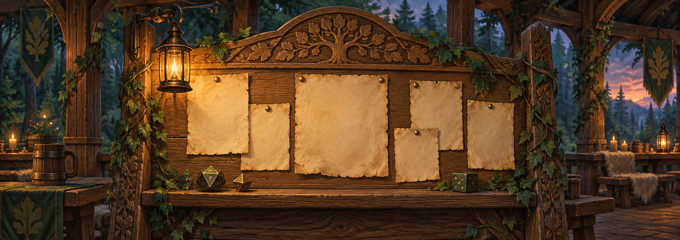
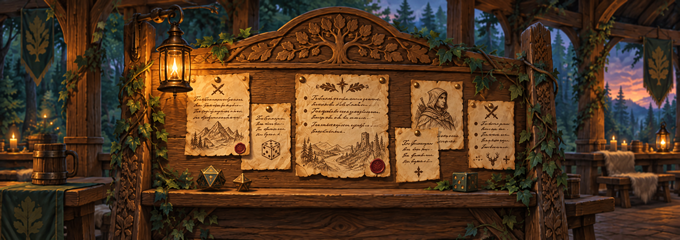
Refine medieval Discord noticeboard art

diff --git a/docs/design/2026-09-16-discord-assets/README.md b/docs/design/2026-09-16-discord-assets/README.md
@@ -1,6 +1,6 @@
 # Discord icon and banner concepts
 
-Generated 2026-09-16 with built-in image generation. Each final set contains a 1024 × 1024 application icon and a 680 × 240 banner. No set contains text or copied brand elements.
+Generated 2026-09-16 with built-in image generation. Each final set contains a 1024 × 1024 application icon and a 680 × 240 banner. No set contains copied brand elements.
 
 ## Forest gateway
 
@@ -8,16 +8,10 @@ Generated 2026-09-16 with built-in image generation. Each final set contains a 1
 - `forest/groblus-forest-banner-680x240.png`
 - Direction: mossy stone gateway, lanterns and an illuminated woodland refuge.
 
-## Mythic islands
-
-- `islands/icon.png`
-- `islands/banner.png`
-- Direction: twilight archipelago, crescent moon, standing stone and wind over dark water.
-
 ## Guild noticeboard
 
 - `noticeboard/icon.png`
 - `noticeboard/banner.png`
-- Direction: carved oak noticeboard, blank parchment, brass pins, ivy and warm lantern light.
+- Direction: medieval carved-oak noticeboard, handwritten quest notices, an ink portrait, a simple die sketch, seals, brass pins, ivy and warm lantern light.
 
-Source renders used for cropping may be retained locally beside the finals. Only the six final assets are intended for Discord upload.
+Source renders used for cropping may be retained locally outside the repository. Only the four final assets are intended for Discord upload.
